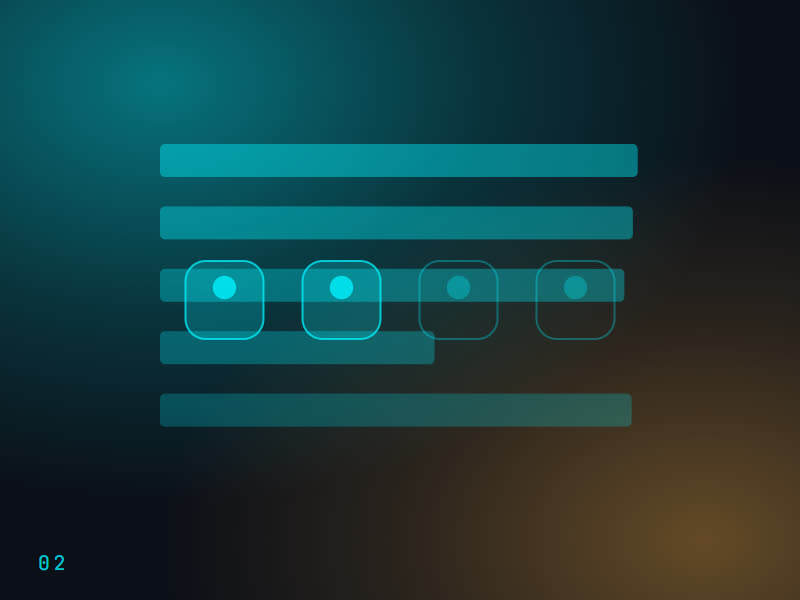
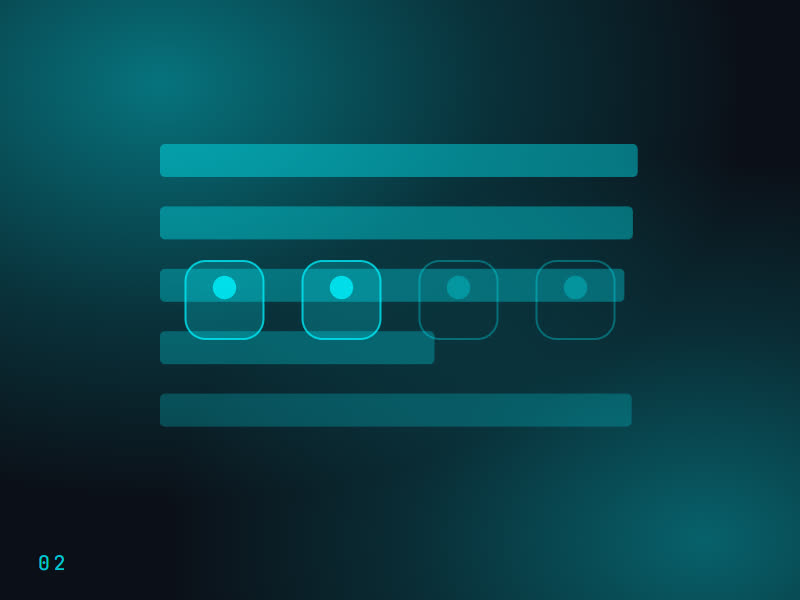
Back to the site's own colours, and the glass stack given room to sit
Two corrections.

The colour. This page shipped in amber, on my own reasoning that four dark
pages in one palette would blur together and a hue of its own was the cheapest
way to keep them apart. It did keep them apart — it also stopped looking like
the same website, which is the more expensive problem, and it is the same note
the MVP page got a fortnight ago. The ramp is now style.css's own, copied
rather than approximated: #00F2FE into #4EA8FF into #9D4EDD, with its --text,
--dim and --faint as well so body copy matches too. Twenty-three drawn images
carried the amber inside them and have been regenerated. What separates this
page is its layout, its components and its roster motif, not its hue.

The proof section. "Fifty-plus teams have run this arrangement with us" was
given a title and a body per item and nothing else, in a 320px box. The
component has direction, gap, padding, radius, glass colour and its own title
and body fonts, all of which were sitting at Framer's defaults against a dark
ground — and with no direction set it laid five long items out in a ROW and
clipped them. Set vertical, with the fonts and colours this page actually uses,
and given real height: it now measures a 740px column of five, where it was a
clipped 320px row.

Verified: --grad resolves to style.css's exact ramp, the eyebrow is
rgb(0, 242, 254), --text is #EAF0FA, the stack is flex-direction column with
five cards at 740px, and the sweep is 44 pages with 0 problems.

Changed region(s): [[0.4062, 0.45, 1.0, 1.0]]

diff --git a/assets/css/team.css b/assets/css/team.css
@@ -7,12 +7,15 @@
      MVP    cyan-forward, around a magazine
      PoC    blue-violet, around a blueprint
      React  cyan-teal, around a component graph
-     Team   AMBER INTO CYAN, around a roster — seat marks, name plates, and a
-            signature rule that runs under every heading
+     Team   THE SITE'S OWN RAMP, around a roster — seat marks, name plates,
+            and a signature rule under every heading
 
-   Amber appears nowhere else on the site, and that is deliberate. Four dark
-   pages in one palette start to blur together; one colour that belongs to a
-   single page is the cheapest way to keep them apart.
+   This page shipped once in amber, on the theory that a colour of its own
+   would keep four dark pages apart. It did — it also stopped looking like the
+   same website, which is the more expensive problem and the same note the MVP
+   page got. The ramp here is now style.css's own, unchanged: #00F2FE into
+   #4EA8FF into #9D4EDD. What separates this page from the other three is its
+   layout, its components and its roster motif, not a colour nothing else uses.
 
    The rule that is not taste: nothing here paints an opaque background. The
    site draws a hexagon field on every page (assets/js/hexbg.js — a fixed
@@ -24,24 +27,25 @@
 
 .tm {
   --ink: #0B0F17;
-  --amber: #FFB042;
   --cyan: #00F2FE;
   --blue: #4EA8FF;
-  --text: #F3EDE4;
-  --dim: #CFC6B8;
-  --faint: #8C8375;
+  --purple: #9D4EDD;
+  /* style.css's own text ramp, so body copy matches every other page. */
+  --text: #EAF0FA;
+  --dim: #9AA7BD;
+  --faint: #6B7A93;
   --line: rgba(255, 255, 255, 0.09);
   --line-2: rgba(255, 255, 255, 0.18);
-  /* Amber first — the one ramp on this site that does not start at cyan. */
-  --grad: linear-gradient(120deg, #FFB042 0%, #00F2FE 62%, #4EA8FF 100%);
+  /* style.css's --grad, copied exactly rather than approximated. */
+  --grad: linear-gradient(120deg, #00F2FE 0%, #4EA8FF 45%, #9D4EDD 100%);
   --mono: 'JetBrains Mono', ui-monospace, monospace;
   --display: 'Space Grotesk', system-ui, sans-serif;
   --ease: cubic-bezier(0.22, 0.61, 0.36, 1);
 
   position: relative;
   background:
-    radial-gradient(56% 44% at 8% 2%, rgba(255, 176, 66, 0.10) 0%, transparent 60%),
-    radial-gradient(50% 42% at 94% 44%, rgba(0, 242, 254, 0.09) 0%, transparent 62%);
+    radial-gradient(56% 44% at 8% 2%, rgba(0, 242, 254, 0.10) 0%, transparent 60%),
+    radial-gradient(50% 42% at 94% 44%, rgba(157, 78, 221, 0.09) 0%, transparent 62%);
   color: var(--text);
   font-family: 'Space Grotesk', system-ui, sans-serif;
   /* clip, never hidden — `hidden` would make this its own scroll container. */
@@ -65,7 +69,7 @@
   font-weight: 600;
   letter-spacing: 0.2em;
   text-transform: uppercase;
-  color: var(--amber);
+  color: var(--cyan);
 }
 
 /* The seat mark — this page's own, where React uses JSX brackets and PoC a
@@ -142,11 +146,11 @@
 
 .tm-btn--primary {
   background: var(--grad);
-  color: #1A1204;
-  box-shadow: 0 14px 34px -16px rgba(255, 176, 66, 0.8);
+  color: #06121A;
+  box-shadow: 0 14px 34px -16px rgba(0, 242, 254, 0.8);
 }
 
-.tm-btn--primary:hover { transform: translateY(-2px); box-shadow: 0 20px 42px -16px rgba(0, 242, 254, 0.85); }
+.tm-btn--primary:hover { transform: translateY(-2px); box-shadow: 0 20px 42px -16px rgba(157, 78, 221, 0.85); }
 
 .tm-btn--ghost {
   border-color: var(--line-2);
@@ -154,7 +158,7 @@
   color: var(--text);
 }
 
-.tm-btn--ghost:hover { border-color: var(--amber); background: rgba(255, 176, 66, 0.1); }
+.tm-btn--ghost:hover { border-color: var(--cyan); background: rgba(0, 242, 254, 0.1); }
 
 .tm-actions { display: flex; flex-wrap: wrap; gap: 14px; margin-top: 30px; }
 .tm-actions--mid { justify-content: center; }
@@ -305,7 +309,7 @@
   transition: background-color 0.25s var(--ease);
 }
 
-.tm-role-row:hover { background: rgba(255, 176, 66, 0.045); }
+.tm-role-row:hover { background: rgba(0, 242, 254, 0.045); }
 
 .tm-role-row dt {
   display: flex;
@@ -322,7 +326,7 @@
   font-size: 0.66rem;
   font-weight: 700;
   letter-spacing: 0.16em;
-  color: var(--amber);
+  color: var(--cyan);
 }
 
 .tm-role-row dd {
@@ -400,7 +404,9 @@
 
 /* --- Proof ----------------------------------------------------------------- */
 
-.tm-glass-host { min-height: 320px; }
+/* Vertical, five items, each with a heading and a paragraph — it needs room.
+   min-height alone was what squashed the first version into a clipped row. */
+.tm-glass-host { min-height: 640px; }
 
 .tm-proof-fallback { margin: 0; padding: 0; list-style: none; }
 
@@ -431,7 +437,7 @@
   padding: 0;
 }
 
-.tm-model:focus-visible { outline: 2px solid var(--amber); outline-offset: 4px; border-radius: 20px; }
+.tm-model:focus-visible { outline: 2px solid var(--cyan); outline-offset: 4px; border-radius: 20px; }
 
 .tm-model-inner {
   position: relative;
@@ -481,7 +487,7 @@
   font-size: 0.68rem;
   font-weight: 700;
   letter-spacing: 0.18em;
-  color: var(--amber);
+  color: var(--cyan);
 }
 
 .tm-model-face h3 {
@@ -524,7 +530,7 @@
   font-size: 0.62rem;
   letter-spacing: 0.1em;
   text-transform: uppercase;
-  color: var(--amber);
+  color: var(--cyan);
 }
 
 /* --- FAQ ------------------------------------------------------------------- */
@@ -550,7 +556,7 @@
 }
 
 .tm-faq-item { border-bottom: 1px solid var(--line); transition: border-color 0.3s var(--ease); }
-.tm-faq-item[open] { border-color: rgba(255, 176, 66, 0.45); }
+.tm-faq-item[open] { border-color: rgba(0, 242, 254, 0.45); }
 
 .tm-faq-item summary {
   display: flex;
@@ -568,7 +574,7 @@
 }
 
 .tm-faq-item summary::-webkit-details-marker { display: none; }
-.tm-faq-item summary:focus-visible { outline: 2px solid var(--amber); outline-offset: 3px; }
+.tm-faq-item summary:focus-visible { outline: 2px solid var(--cyan); outline-offset: 3px; }
 
 .tm-faq-mark { position: relative; flex: 0 0 auto; width: 15px; height: 15px; margin-top: 5px; }
 
@@ -577,7 +583,7 @@
   position: absolute;
   inset: 0;
   margin: auto;
-  background: var(--amber);
+  background: var(--cyan);
   transition: transform 0.32s var(--ease), opacity 0.32s var(--ease);
 }
 

diff --git a/services/dedicated-engineering-team.php b/services/dedicated-engineering-team.php
@@ -27,11 +27,11 @@
  * steps aside for it. Until then the arc is the live 3D hero, so the page is
  * complete either way rather than waiting on a scene that may never come.
  *
- * Theme: the site's palette, weighted a FOURTH way. MVP is cyan on a magazine,
- * PoC blue-violet on a blueprint, React cyan-teal on a component graph; this
- * one is AMBER-INTO-CYAN on a roster — seat marks, name plates, and a rule
- * that runs under every heading like a signature line. Amber appears nowhere
- * else on the site, which is what keeps four dark pages distinguishable.
+ * Theme: the site's own ramp, unchanged — #00F2FE into #4EA8FF into #9D4EDD,
+ * exactly as style.css defines it. This page shipped once in amber on the
+ * theory that a colour of its own would keep four dark pages apart; it did,
+ * and it also stopped looking like the same website. What separates this page
+ * is its layout, its components and its roster motif, not its hue.
  *
  * Every picture is rendered by tools/team-art.mjs and every slot prefers a
  * photograph from assets/img/team/photo/ the moment one lands.
@@ -401,6 +401,12 @@ $splineScene = (defined('SPLINE_SCENE_TEAM') && SPLINE_SCENE_TEAM !== '')
         </p>
       </div>
 
+      <?php /* The glass stack, given the props it actually needs.
+               First pass passed only title and body and left it in a 320px
+               box, so it laid five long items out in a ROW and clipped them —
+               its own default is vertical and it has fonts, padding and colour
+               of its own that were all sitting at Framer's defaults against
+               this page's dark ground. */ ?>
       <div class="tm-glass-host"
            data-ok="glass-stack"
            data-props='<?= e(json_encode([
@@ -409,6 +415,18 @@ $splineScene = (defined('SPLINE_SCENE_TEAM') && SPLINE_SCENE_TEAM !== '')
                    'body'            => $p[1],
                    'backgroundImage' => ['src' => $imgAbs('proof/' . str_pad((string) ($i + 1), 2, '0', STR_PAD_LEFT) . '.jpg'), 'alt' => $p[0]],
                ], $proof, array_keys($proof)),
+               'direction'        => 'vertical',
+               'gap'              => 18,
+               'containerPadding' => 0,
+               'allowOverflow'    => false,
+               'backgroundColor'  => 'rgba(255, 255, 255, 0.06)',
+               'glassOpacity'     => 0.85,
+               'borderRadius'     => 20,
+               'padding'          => 34,
+               'titleFont'        => ['fontSize' => '24px', 'fontWeight' => 700, 'letterSpacing' => '-0.03em', 'lineHeight' => '1.2em'],
+               'bodyFont'         => ['fontSize' => '15px', 'fontWeight' => 400, 'letterSpacing' => '-0.005em', 'lineHeight' => '1.65em'],
+               'titleColor'       => '#EAF0FA',
+               'bodyColor'        => '#9AA7BD',
            ], JSON_THROW_ON_ERROR)) ?>'>
         <ul class="tm-proof-fallback">
           <?php foreach ($proof as [$t, $b]): ?>
@@ -494,9 +512,9 @@ $splineScene = (defined('SPLINE_SCENE_TEAM') && SPLINE_SCENE_TEAM !== '')
          data-ok="ambient-background"
          data-props='<?= e(json_encode([
              'baseColor'       => 'rgba(0, 0, 0, 0)',
-             'color1'          => 'rgba(255, 176, 66, 0.20)',
-             'color2'          => 'rgba(0, 242, 254, 0.18)',
-             'color3'          => 'rgba(78, 168, 255, 0.16)',
+             'color1'          => 'rgba(0, 242, 254, 0.18)',
+             'color2'          => 'rgba(78, 168, 255, 0.16)',
+             'color3'          => 'rgba(157, 78, 221, 0.18)',
              'blurAmount'      => 90,
              'speedMultiplier' => 0.45,
          ], JSON_THROW_ON_ERROR)) ?>'></div>
